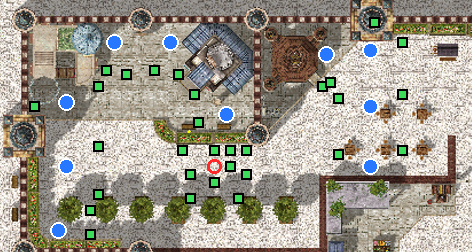
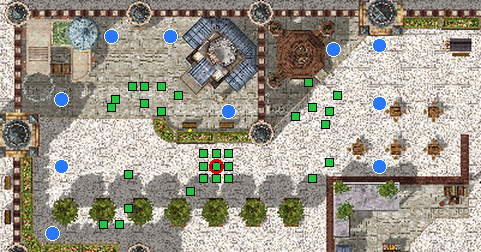
Combate dos Cubos: ajustes (Prontera ao cair, premio na chegada, nevoa visivel, sem aprendiz, baus)

diff --git a/docs/eventos/combate-dos-cubos.md b/docs/eventos/combate-dos-cubos.md
@@ -2,15 +2,16 @@
 
 ![](../assets/npcs/4_treasure_box.png){ align=right loading=lazy }
 
-Evento de sobrevivência, todos contra todos, numa arena no centro da cidade de **Doubrius**.
-Quebre os baús, junte **Cubos de Poder** para ficar mais forte e seja o último de pé antes que a **névoa venenosa** feche o mapa.
+**Evento de sobrevivência**, todos contra todos, numa arena no centro da cidade de **Doubrius**.
+O objetivo é **ficar no top 3**: quebre os baús, junte **Cubos de Poder** para ficar mais forte e aguente o máximo que puder antes que a **névoa venenosa** feche o mapa.
 
 ## Quando e como entrar
 
 - **Horário:** às **19h30** de **terça, quinta, sexta e domingo** (veja a [agenda da noite](automaticos.md#a-noite-19h-as-22h)).
 - **Inscrição:** nos 5 minutos antes, o servidor avisa minuto a minuto. Digite `@evento` ou fale com o NPC **Combate dos Cubos** na [Central do Aventureiro](../npcs/central-aventureiro.md) (parede da direita).
 - Precisa de pelo menos **2 jogadores**. Cada sala tem **até 10**: com mais gente, abrem mais salas ao mesmo tempo, e cada sala tem o seu vencedor.
-- Você entra com o seu personagem e o seu equipamento, e volta para onde estava quando sair.
+- Você entra com o seu personagem e o seu equipamento. Quando cai (ou quando o combate acaba), vai **direto para Prontera**.
+- :no_entry: **Aprendiz e Super Aprendiz não participam** (por causa da habilidade Fingir de Morto).
 
 ## Os baús e os Cubos de Poder
 
@@ -23,27 +24,28 @@ Quebre os baús, junte **Cubos de Poder** para ficar mais forte e seja o último
 
 ## Ver a força dos outros
 
-Em cima da cabeça de cada jogador aparece um **emblema com o número de cubos** que ele tem. Ao passar o mouse sobre o jogador, aparece também o nome "N Cubos".
+**Passe o mouse em cima de um jogador** para ver quantos cubos ele tem (aparece "N Cubos" no nome).
 O número muda na hora, sempre que alguém pega um cubo, e todo mundo da sala recebe um aviso.
-
-![Emblemas do Combate dos Cubos](../assets/combate_emblemas.png)
 
 ## A arena
 
 ![Arena do Combate dos Cubos](../assets/combate_arena.png)
 
-- :large_blue_circle: **Largadas (azul):** 10 lugares fixos, todos à **mesma distância andando** do centro. Cada largada tem **2 baús só dela** por perto (:green_square: verde).
-- :red_circle: **Centro (vermelho):** **10 baús juntos**. Vale muito, mas todo mundo vai querer.
+- :large_blue_circle: **Largadas (azul):** 10 lugares fixos, todos à **mesma distância andando** do centro.
+- :green_square: **Baús (verde):** cada largada tem 1 ou 2 baús **no caminho para o centro**, um pouco longe de onde você nasce. Fique atento: no caminho você pode cruzar com um vizinho.
+- :red_circle: **Centro (vermelho):** **10 baús bem juntos**. Vale muito, mas todo mundo vai querer, e a briga é certa.
 - O centro aparece marcado no seu minimapa durante o combate.
 
 ## A névoa venenosa
 
-- Depois de **40 segundos**, a névoa começa a fechar o mapa, das bordas para o centro (pela distância andando), **1 passo a cada 5 segundos**.
+- Depois de **40 segundos**, a névoa começa a fechar o mapa, das bordas para o centro (pela distância andando), **1 passo a cada 5 segundos**. A borda da névoa aparece como uma **fumaça** no chão: não passe dela.
 - Por volta dos **3 minutos e meio** ela chega nas largadas; por volta dos **6 minutos e meio** só sobra uma roda pequena no meio.
-- Quem fica na névoa perde **5% do HP máximo a cada 2 segundos**, e o veneno fica mais forte a cada minuto (até 20%).
+- Quem fica na névoa perde **3% do HP máximo a cada 2 segundos**, e o veneno fica um pouco mais forte a cada minuto (até 10%).
 - O combate dura no máximo **8 minutos**. Se o tempo acabar com mais de um vivo, vence quem tem **mais cubos** (empate: mais abates).
 
-## Prêmios (por sala, pelo correio)
+## Prêmios (por sala)
+
+O prêmio chega **assim que você aparece em Prontera**: o 3º e o 2º recebem ao cair, e o vencedor (o último de pé) é levado para Prontera e recebe na hora. Se estiver sem peso livre, o prêmio vai pelo correio.
 
 | Colocação | Prêmio |
 |---|---|

diff --git a/docs/novidades.md b/docs/novidades.md
@@ -4,6 +4,7 @@ Tudo o que entrou no servidor, do mais novo para o mais antigo.
 
 ## 04/11/2026
 
+- :package: **Combate dos Cubos (ajustes):** quem cai vai direto para Prontera, e o vencedor também; o 1º, o 2º e o 3º recebem o prêmio na hora, ao chegar. A borda da **névoa venenosa** agora aparece como fumaça no chão, e o veneno ficou mais fraco (3% do HP a cada 2 segundos, até 10%). Os baús de cada largada ficaram um pouco mais longe (no caminho para o centro) e os 10 do meio ficaram mais juntos. **Aprendiz e Super Aprendiz não participam.** Para ver quantos cubos alguém tem, passe o mouse em cima dele. [Combate dos Cubos](eventos/combate-dos-cubos.md)
 - :package: **Combate dos Cubos:** evento novo de sobrevivência numa arena da cidade de Doubrius. Quebre os baús, pegue os **Cubos de Poder** (cada um dá +10% de HP e +10% de dano), veja no emblema em cima da cabeça quantos cubos cada um tem e fuja da **névoa venenosa**, que fecha o mapa aos poucos. Até 10 por sala; às 19h30 de terça, quinta, sexta e domingo, com `@evento`. [Combate dos Cubos](eventos/combate-dos-cubos.md)
 - :art: **Visual novo para vários NPCs:** agora cada NPC tem a sua aparência, ligada ao que ele faz (o Estilista é um barbeiro, o Banqueiro anda de terno, a Chapeleira usa chapéu, o Oficial de Guerra é um comandante...). Curandeira e Lotérica trocaram de visual entre si. [Prontera](npcs/prontera.md) · [Central do Aventureiro](npcs/central-aventureiro.md)
 - :calendar: A **Agenda de Eventos** agora fica em **Prontera (168,178)**. Na Central do Aventureiro, a **Invasão de Cristais**, o **Resta 1** e o **Pique-pega** ficam logo na entrada; o **Quiz** continua na parede da direita. Os NPCs dos cristais (Invasão, Guia e Guarda dos Cristais) agora têm a cara de um cristal, e o Hobota e o Evento de Lançamento ganharam visual novo. [Central do Aventureiro](npcs/central-aventureiro.md)
